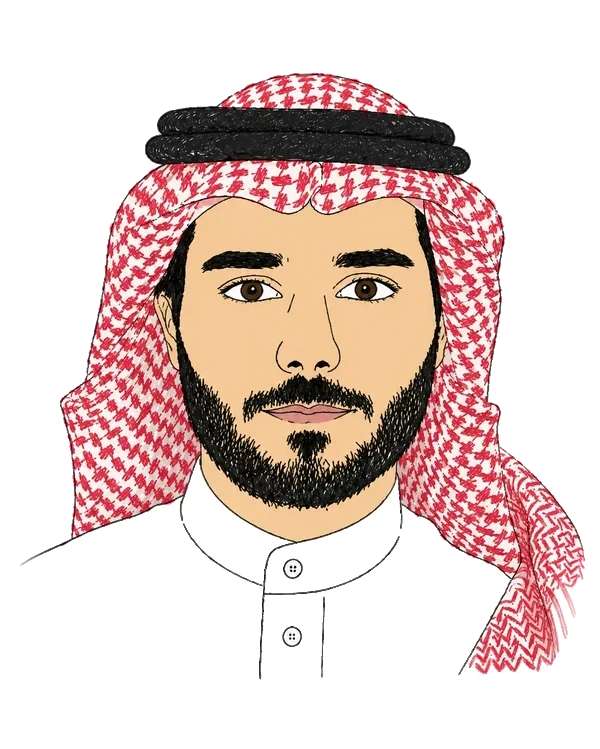
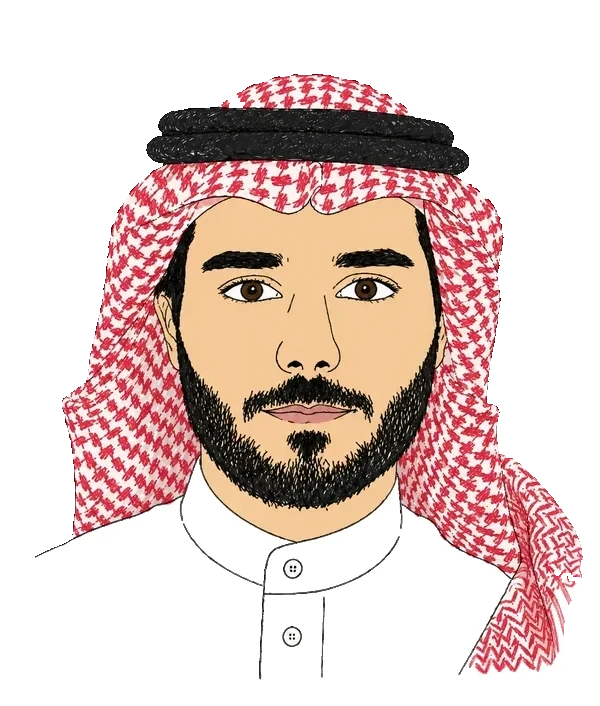
Live visitor counter and crisp thobe portrait edge (#47)
* Add a live visitor counter and harden the thobe portrait's edge

The footer now shows "You're the Nth person to land here", backed by an
abacus hit counter (namespace abdullaalbassam-com, key visits). A visit
is counted once per browser session; later pages only read the value.

The formal-attire cartoon had a feathered, anti-aliased outline that
read as blurry next to the deliberately hard cut-out of the sidebar
portrait. Its alpha is now thresholded and eroded by one pixel, with
the intentional fade at the bottom preserved.

* Reword the visitor counter line

* Fix type error in thoughts OG image endpoint

Response does not accept a Node Buffer under the current lib types; wrap it in a Uint8Array.

* Sticky header, new Umami site, CSP fix for the counter, flat portrait edge

The brand header now stays pinned while scrolling on every page, so the
home link and (on mobile) the menu are always reachable; the desktop
sidebar's sticky offset moves down to clear it.

Umami's old website record no longer exists in the account, so the
tracking id is replaced with a freshly created one. The CSP's
connect-src now allows the abacus counter host, which was why the
visitor line never appeared on Vercel.

The formal-attire portrait loses its bottom fade: the silhouette is
fully opaque and the image is cropped where the fade began, giving a
straight cut like its sides.

* Roll the visitor counter up by one when the footer comes into view
[…]

diff --git a/src/pages/thoughts/og/[slug].png.ts b/src/pages/thoughts/og/[slug].png.ts
@@ -68,5 +68,5 @@ export const GET: APIRoute = async ({ props }) => {
   });
 
   const png = new Resvg(svg, { fitTo: { mode: "width", value: WIDTH } }).render().asPng();
-  return new Response(png, { headers: { "Content-Type": "image/png" } });
+  return new Response(new Uint8Array(png), { headers: { "Content-Type": "image/png" } });
 };
